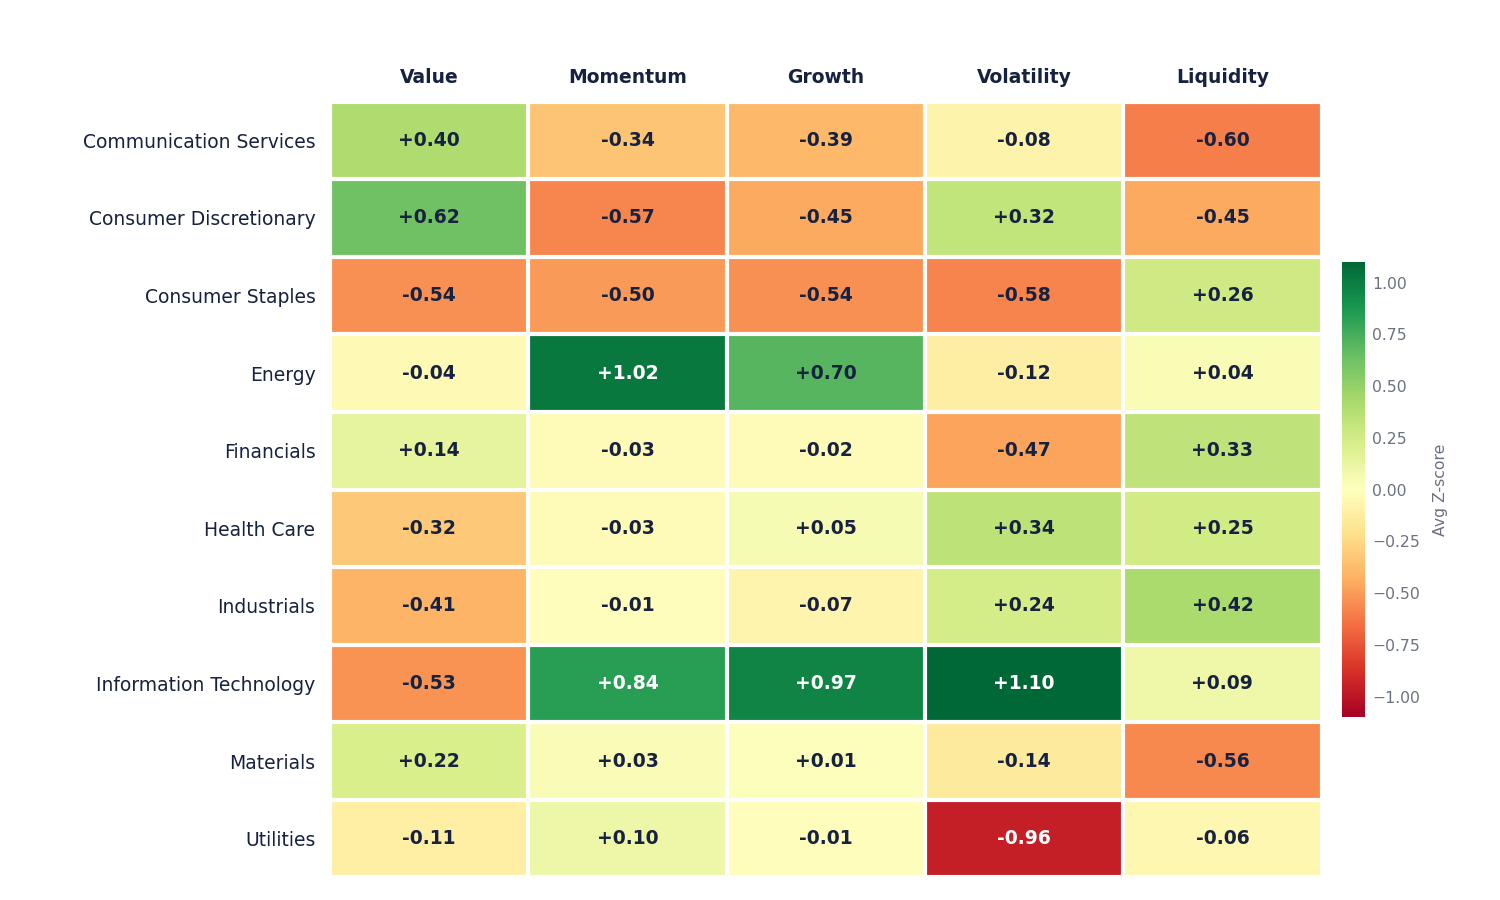
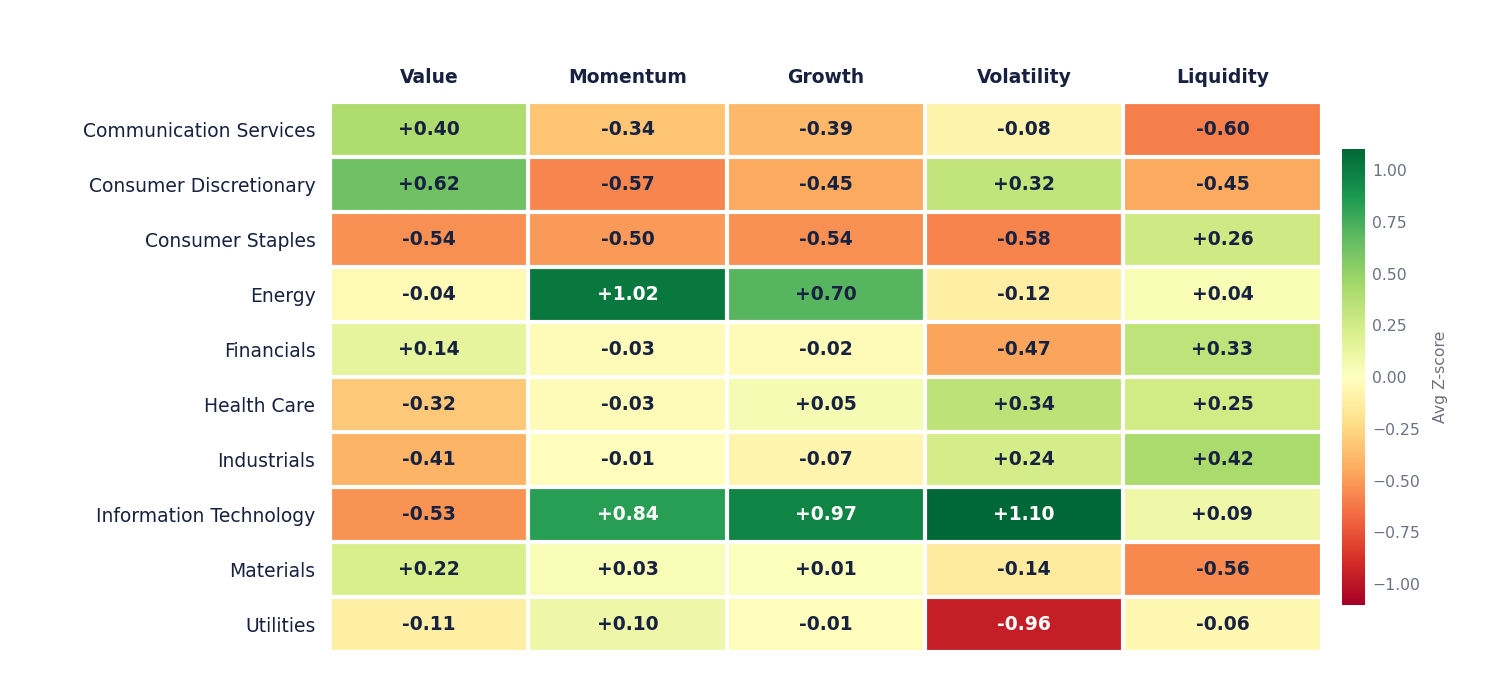
again

diff --git a/assets/2026-06/generate_exposure.py b/assets/2026-06/generate_exposure.py
@@ -90,7 +90,7 @@ _heatmap(
     mkt_data, mkt_rows, mkt_cols,
     "By Market",
     OUT / "market_factor_exposure.png",
-    figsize=(FIXED_WIDTH, 6),
+    figsize=(FIXED_WIDTH, 4.5),
 )
 
 
@@ -109,7 +109,7 @@ _heatmap(
     pos_data, pos_rows, pos_cols,
     "By Position",
     OUT / "individual_position_exposure.png",
-    figsize=(FIXED_WIDTH, 3.2),
+    figsize=(FIXED_WIDTH, 2.4),
     cbar_label="Z-score",
 )
 
@@ -119,7 +119,7 @@ _heatmap(
 tilt_factors = ["Growth", "Momentum", "Volatility", "Value", "Liquidity"]
 tilt_values  = [2.25, 2.16, 2.13, -0.31, -1.28]
 
-fig, ax = plt.subplots(figsize=(8, 4), facecolor="none")
+fig, ax = plt.subplots(figsize=(8, 2.8), facecolor="none")
 
 colors = ["#16a34a" if v >= 0 else "#dc2626" for v in tilt_values]
 bars = ax.barh(tilt_factors, tilt_values, color=colors,